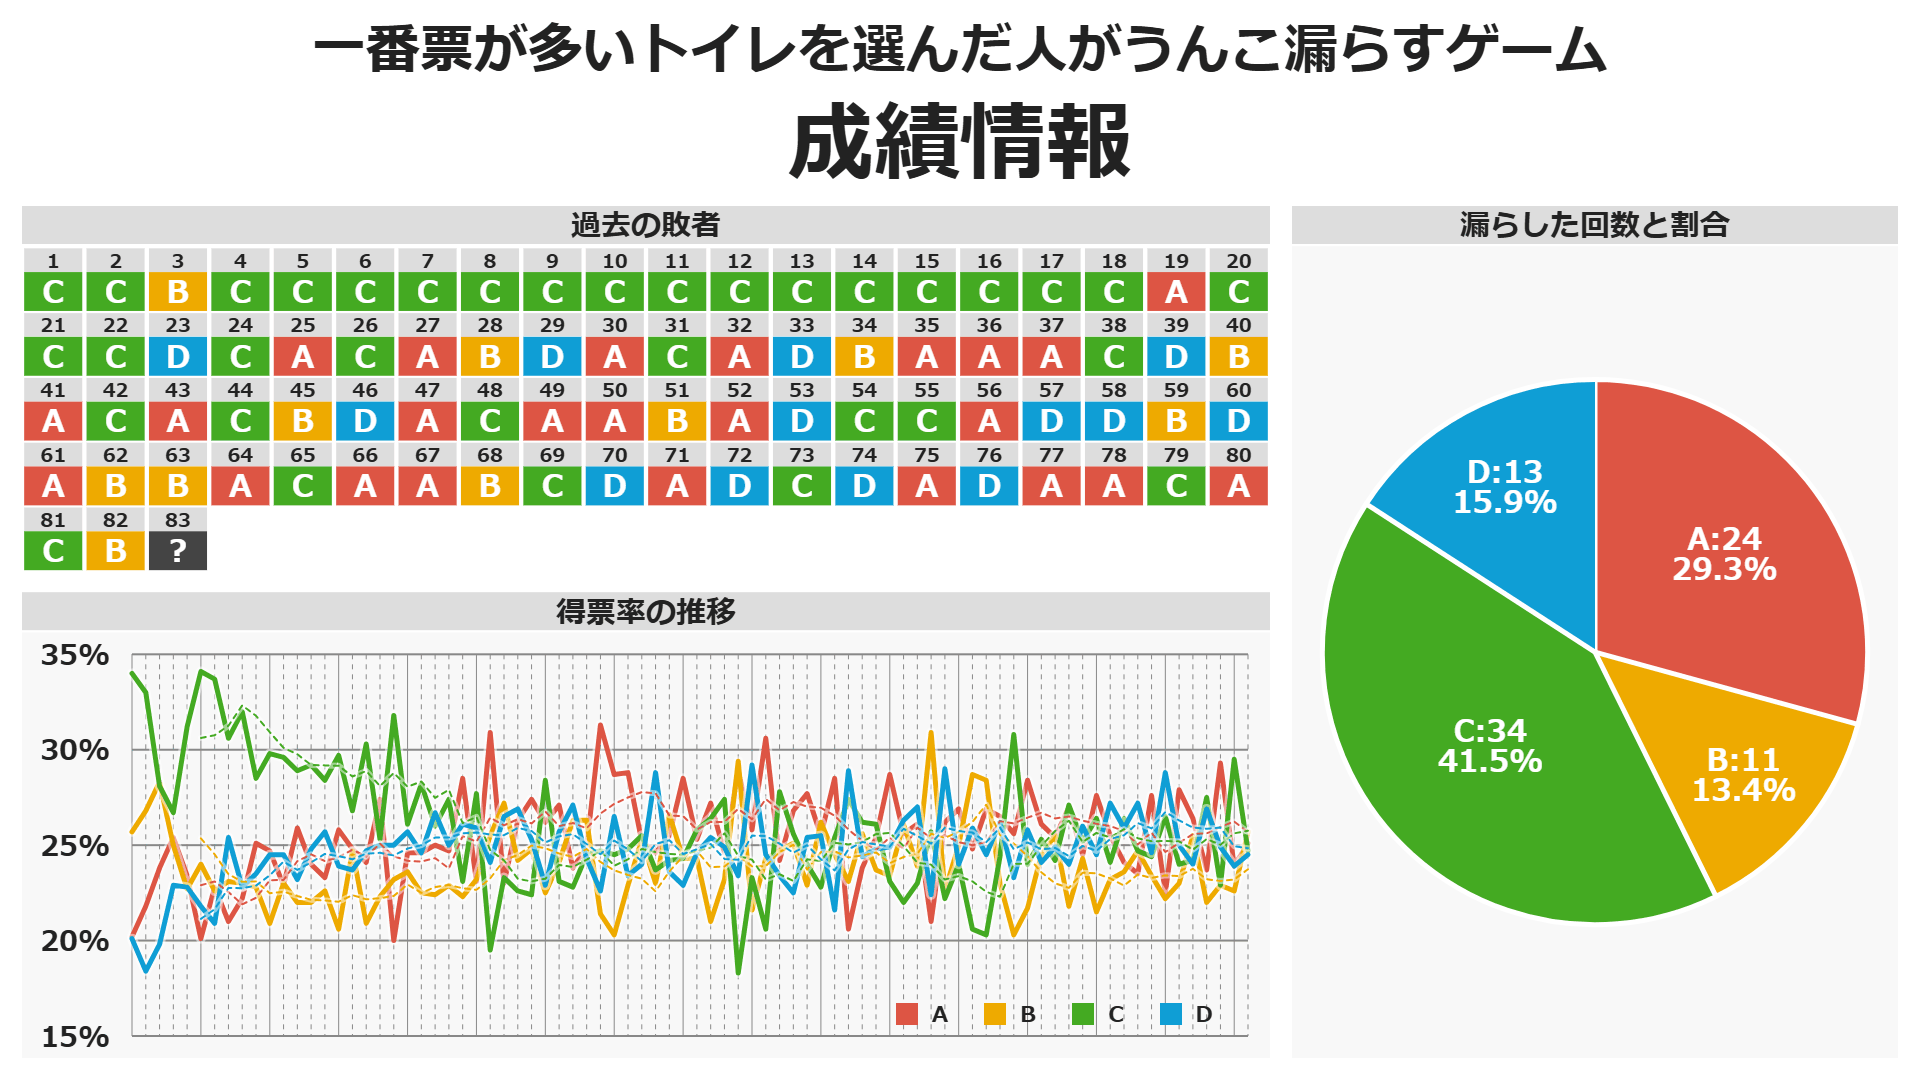
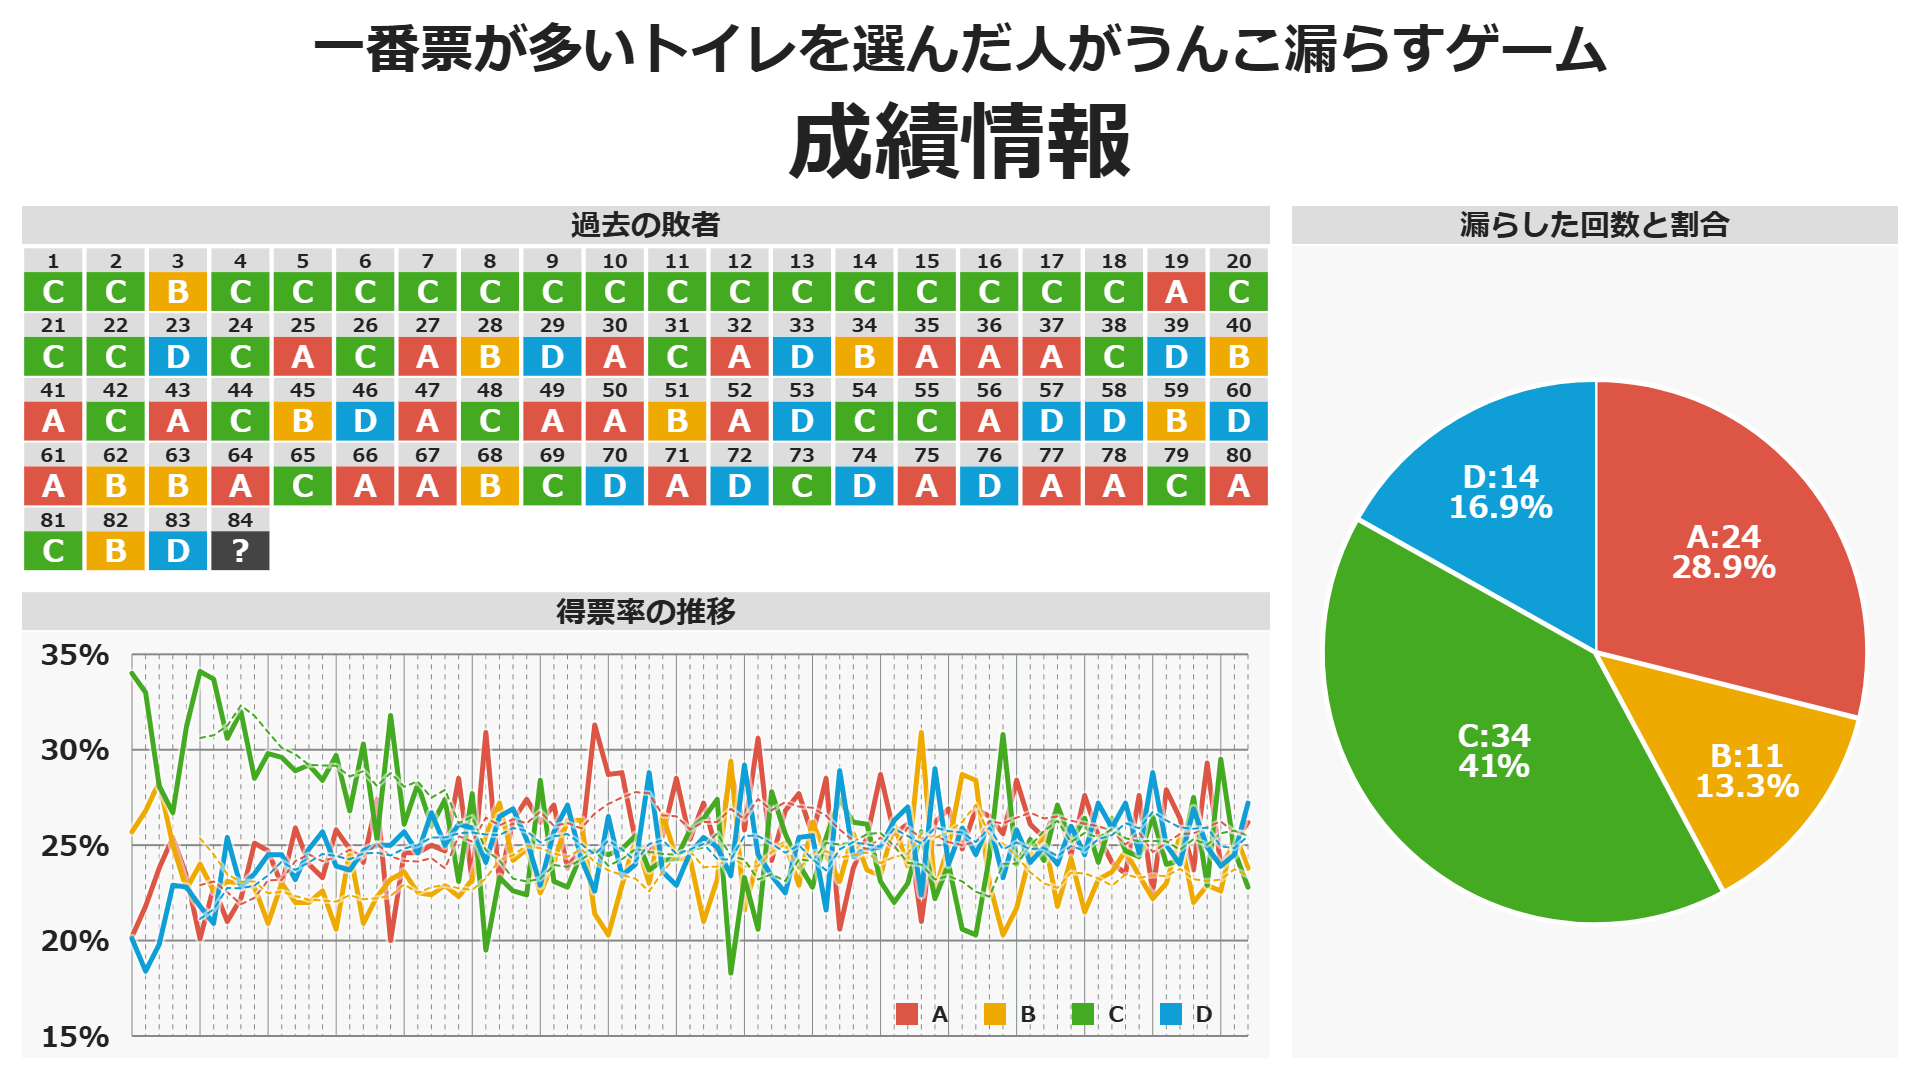
update

diff --git a/docs/index.html b/docs/index.html
@@ -12,7 +12,7 @@
     <meta property="og:url" content="https://shapoco.github.io/toilet-game/" />
     <meta property="og:title" content="4択トイレゲーム" />
     <meta property="og:description" content="一番票が多いトイレを選んだ人がうんこ漏らすゲーム" />
-    <meta property="og:image" content="https://shapoco.github.io/toilet-game/cover.png?20250621135900" />
+    <meta property="og:image" content="https://shapoco.github.io/toilet-game/cover.png?20250628215200" />
     
     <link rel="icon" href="https://shapoco.github.io/favicon192.png" sizes="192x192">
     <link rel="apple-touch-icon" href="https://shapoco.github.io/apple-touch-icon180.png" sizes="180x180">
@@ -36,8 +36,8 @@
     <style>
     </style>
     
-    <link rel="stylesheet" href="./style.css?20250621135900">
-    <script src="./toilet_game.js?20250621135900"></script>
+    <link rel="stylesheet" href="./style.css?20250628215200">
+    <script src="./toilet_game.js?20250628215200"></script>
 
     <title>4択トイレゲーム</title>
   </head>

diff --git a/docs/work.html b/docs/work.html
@@ -12,7 +12,7 @@
     <meta property="og:url" content="https://shapoco.github.io/toilet-game/" />
     <meta property="og:title" content="4択トイレゲーム" />
     <meta property="og:description" content="一番票が多いトイレを選んだ人がうんこ漏らすゲーム" />
-    <meta property="og:image" content="https://shapoco.github.io/toilet-game/cover.png?20250621135900" />
+    <meta property="og:image" content="https://shapoco.github.io/toilet-game/cover.png?20250628215200" />
     
     <link rel="icon" href="https://shapoco.github.io/favicon192.png" sizes="192x192">
     <link rel="apple-touch-icon" href="https://shapoco.github.io/apple-touch-icon180.png" sizes="180x180">
@@ -33,8 +33,8 @@
       }
     </script>
 
-    <link rel="stylesheet" href="./style.css?20250621135900">
-    <script src="./toilet_game.js?20250621135900"></script>
+    <link rel="stylesheet" href="./style.css?20250628215200">
+    <script src="./toilet_game.js?20250628215200"></script>
 
     <title>4択トイレゲーム</title>
   </head>

diff --git a/docs/toilet_game.js b/docs/toilet_game.js
@@ -84,6 +84,7 @@ const DB = [
   { date: '2025-05-31', total: 433, percent: [29.3, 22.9, 22.9, 24.9], url: 'https://x.com/shapoco/status/1928792407551914399' },
   { date: '2025-06-07', total: 447, percent: [23.9, 22.6, 29.5, 23.9], url: 'https://x.com/shapoco/status/1931347367376359745' },
   { date: '2025-06-14', total: 514, percent: [25.1, 25.7, 24.7, 24.5], url: 'https://x.com/shapoco/status/1933864117569482963' },
-  { date: '2025-06-21', total: 0, percent: null, url: null },
+  { date: '2025-06-21', total: 492, percent: [26.2, 23.8, 22.8, 27.2], url: '(URL貼り付け)' },
+  { date: '2025-xx-xx', total: 0, percent: null, url: null },
   //{ date: '2025-xx-xx', total: 0, percent: null, url: null },
 ];
